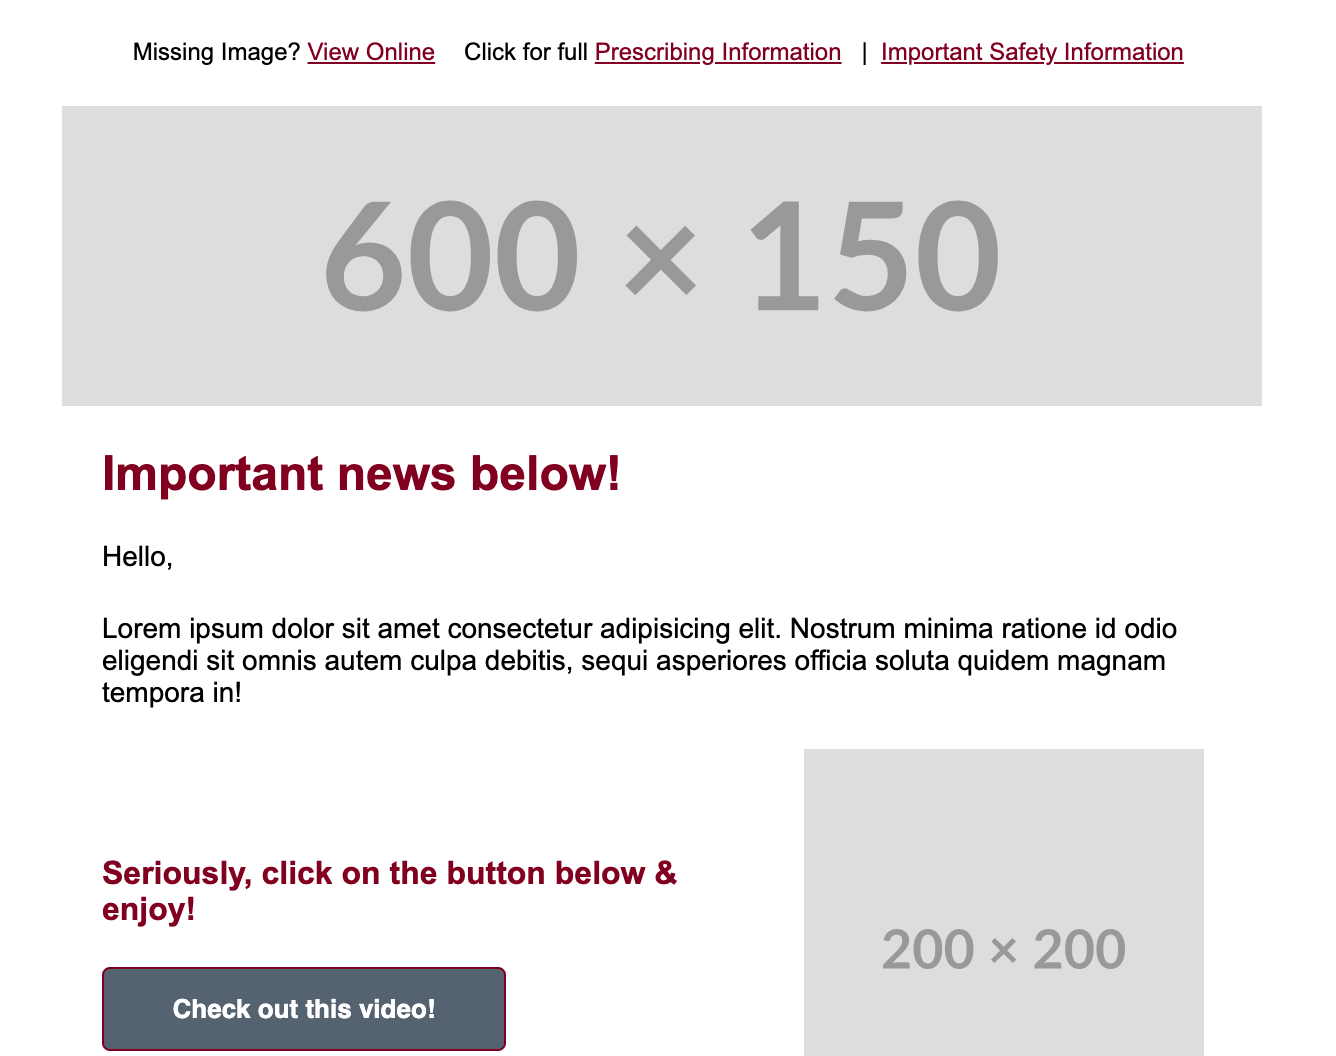
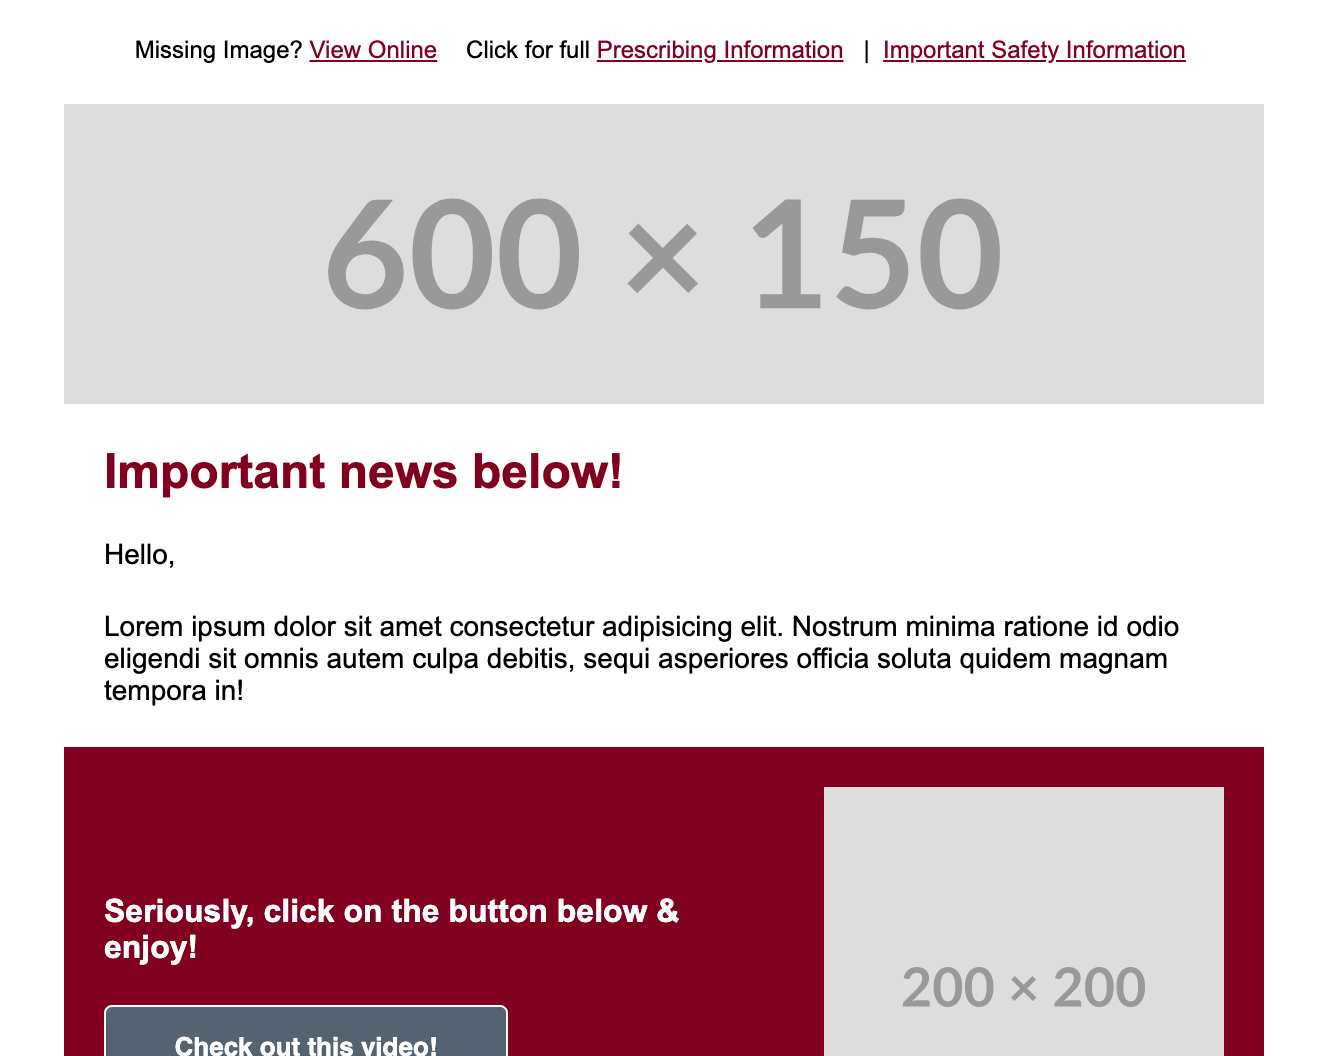
email4 tweaks & new thumb

diff --git a/email4.html b/email4.html
@@ -126,7 +126,7 @@
                     </td>
                 </tr>
                 <tr>
-                    <td style="font-family:Arial, Helvetica, sans-serif; font-size: 14px; line-height: 16px; color: #000000; padding: 10px 20px;">
+                    <td style="font-family:Arial, Helvetica, sans-serif; font-size: 14px; line-height: 16px; color: #000000; padding: 10px 20px 20px;">
                         Lorem ipsum dolor sit amet consectetur adipisicing elit. Nostrum minima ratione id odio eligendi sit omnis autem culpa debitis, sequi asperiores officia soluta quidem magnam tempora in! 
                     </td>
                 </tr>
@@ -136,7 +136,7 @@
 </table>
 
 <!-- EMAIL CONTENT: 2 COLUMNS -->
-<table width="600" cellpadding="0" cellspacing="0" border="0" align="center" class="email-table">
+<table width="600" cellpadding="0" cellspacing="0" border="0" align="center" class="email-table" style="background-color:#800020;" bgcolor="#800020">
     <tr>
         <td align="center">
             <table width="100%" cellpadding="0" cellspacing="0" border="0">
@@ -144,19 +144,19 @@
                     <td align="center" style="width:60%;" class="full-on-mobile" valign="middle">
                         <table width="100%" cellpadding="0" cellspacing="0" border="0">
                             <tr>
-                                <td style="padding:10px 20px 10px 20px; font-family:Arial, Helvetica, sans-serif; font-size: 16px; line-height: 18px; color: #800020; font-weight:bold;" class="mobile-padding center-align">
+                                <td style="padding:20px 20px 0px 20px; font-family:Arial, Helvetica, sans-serif; font-size: 16px; line-height: 18px; color: #ffffff; font-weight:bold;" class="center-align">
                                     Seriously, click on the button below & enjoy!
                                 </td>
                             </tr>
                             <tr>
-                                <td style="padding: 10px 20px;" class="center-align">
+                                <td style="padding: 20px 20px;" class="center-align">
                                     <div>
                                         <!--[if mso]>
-                                            <v:roundrect xmlns:v="urn:schemas-microsoft-com:vml" xmlns:w="urn:schemas-microsoft-com:office:word" href="https://youtu.be/buUDZDiKtDs?si=xj6Bf3iMa9Lg_kfY" style="height:30pt;v-text-anchor:middle;width:150pt;" arcsize="10%" strokecolor="#800020" fillcolor="#556270">
+                                            <v:roundrect xmlns:v="urn:schemas-microsoft-com:vml" xmlns:w="urn:schemas-microsoft-com:office:word" href="https://youtu.be/buUDZDiKtDs?si=xj6Bf3iMa9Lg_kfY" style="height:30pt;v-text-anchor:middle;width:150pt;" arcsize="10%" strokecolor="#ffffff" fillcolor="#556270">
                                             <w:anchorlock/>
                                             <center>
                                         <![endif]-->
-                                        <a href="https://youtu.be/buUDZDiKtDs?si=xj6Bf3iMa9Lg_kfY" style="background-color:#556270;border:1px solid #800020;border-radius:4px;color:#ffffff;display:inline-block;font-family:sans-serif;font-size:13px;font-weight:bold;line-height:40px;text-align:center;text-decoration:none;width:200px;-webkit-text-size-adjust:none;mso-hide:all;" title="Cala the cat - 'I go meow' video on Youtube" alt="Cala the cat - 'I go meow' video on Youtube">Check out this video!</a>
+                                        <a href="https://youtu.be/buUDZDiKtDs?si=xj6Bf3iMa9Lg_kfY" style="background-color:#556270;border:1px solid #ffffff;border-radius:4px;color:#ffffff;display:inline-block;font-family:sans-serif;font-size:13px;font-weight:bold;line-height:40px;text-align:center;text-decoration:none;width:200px;-webkit-text-size-adjust:none;mso-hide:all;" title="Cala the cat - 'I go meow' video on Youtube" alt="Cala the cat - 'I go meow' video on Youtube">Check out this video!</a>
                                         <!-- [if mso]>
                                             </center>
                                             </v:roundrect>
@@ -169,7 +169,7 @@
                     <td align="center" style="width:37%;" class="full-on-mobile" valign="middle">
                         <table width="100%" cellpadding="0" cellspacing="0" border="0">
                             <tr>
-                                <td style="padding:10px 20px 10px 0px;" class="center-align mobile-padding">
+                                <td style="padding:20px 20px 20px 20px;" class="center-align">
                                     <img src="https://placehold.co/200x200" alt="Placeholder image: content" class="content-img">
                                 </td>
                             </tr>
@@ -187,7 +187,7 @@
         <td align="center">
             <table width="100%" cellpadding="0" cellspacing="0" border="0">
                 <tr>
-                    <td style="font-family:Arial, Helvetica, sans-serif; font-size: 14px; line-height: 16px; color: #000000; padding: 10px 20px;">
+                    <td style="font-family:Arial, Helvetica, sans-serif; font-size: 14px; line-height: 16px; color: #000000; padding: 20px 20px 10px;">
                         Lorem ipsum dolor sit amet consectetur adipisicing elit. Non quasi fugiat impedit nostrum placeat illo cum. Aperiam eius molestiae dolore dolor laboriosam quae! Laudantium eligendi, aliquid pariatur cupiditate expedita cum.
                     </td>
                 </tr>
